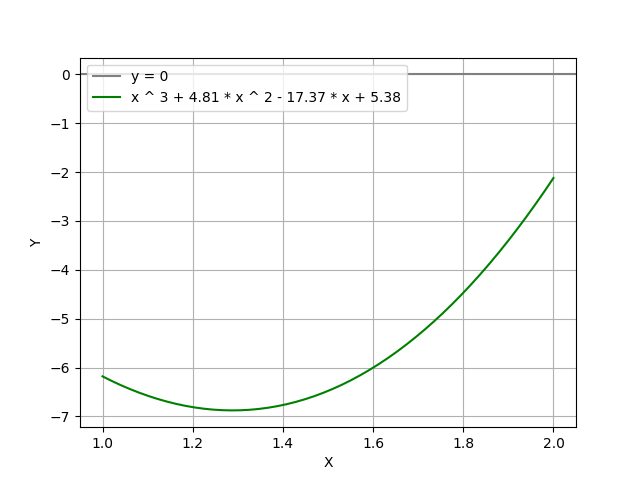
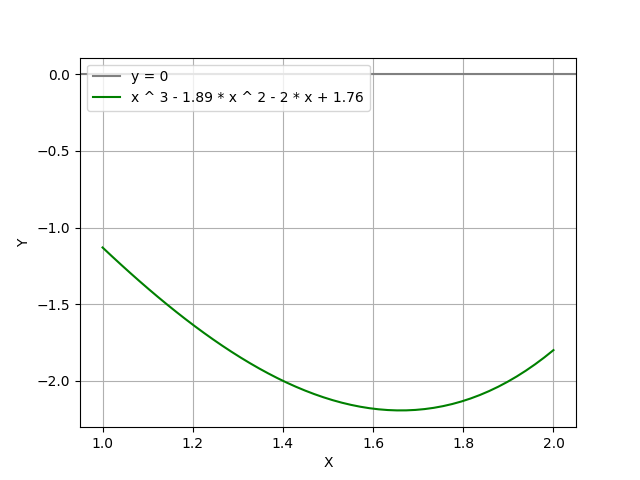
added some changes

diff --git a/main.py b/main.py
@@ -3,7 +3,7 @@ from Equation import Equation
 from methods.NewtonsMethod import NewtonsMethod
 from methods.SimpleIterationsMethod import SimpleIterationsMethod
 
-import mainboilerplate
+import ConsoleFunctionality
 
 methods = {
     2: NewtonsMethod,
@@ -11,22 +11,23 @@ methods = {
 }
 
 predefined_functions = {
-    # Решение на Wolfram: https://www.wolframalpha.com/input/?i=x+%5E+3+%2B+4.81+*+x+%5E+2+-+17.37+*+x+%2B+5.38
     1: Equation(lambda x: (x ** 3 + 4.81 * x ** 2 - 17.37 * x + 5.38), 'x ^ 3 + 4.81 * x ^ 2 - 17.37 * x + 5.38'),
+    2: Equation(lambda x: (math.sin(x) + 0.7 - math.cos(x) ** 2), 'sin(x) + 0.7 - cos(x) ^ 2'),
+    3: Equation(lambda x: (x ** 3 - 1.89 * x ** 2 - 2 * x + 1.76), 'x ^ 3 - 1.89 * x ^ 2 - 2 * x + 1.76'),
 }
 
 ENABLE_LOGGING = True
 
 while True:
     # Выбор функции
-    function = mainboilerplate.choose_equation(predefined_functions)
+    function = ConsoleFunctionality.choose_equation(predefined_functions)
 
     # Выбор метода
-    method_number = mainboilerplate.choose_method_number(methods)
+    method_number = ConsoleFunctionality.choose_method_number(methods)
 
     while True:
         # Ввод исходных данных
-        left, right, epsilon, decimal_places = mainboilerplate.read_initial_data()
+        left, right, epsilon, decimal_places = ConsoleFunctionality.read_initial_data()
 
         # Верификация исходных данных
         method = methods[method_number](function, left, right, epsilon, decimal_places, ENABLE_LOGGING)
@@ -60,7 +61,7 @@ while True:
         continue
 
     # Вывод
-    mainboilerplate.print_result(result, output_file_name)
+    ConsoleFunctionality.print_result(result, output_file_name)
 
     if input('\nЕще раз? [y/n] ') != 'y':
         break

diff --git a/ConsoleFunctionality.py b/ConsoleFunctionality.py
@@ -33,7 +33,7 @@ def print_result(result, output_file_name):
 def read_initial_data() -> Tuple[float, float, float, int]:
     while True:
         filename = input("Введите имя файла для загрузки исходных данных и интервала "
-                         "или пустую строку, чтобы ввести вручную: ")
+                         "или тпусую строку, чтобы ввести вручную: ")
         if filename == '':
             left = float(input('Введите левую границу интервала: '))
             right = float(input('Введите правую границу интервала: '))
